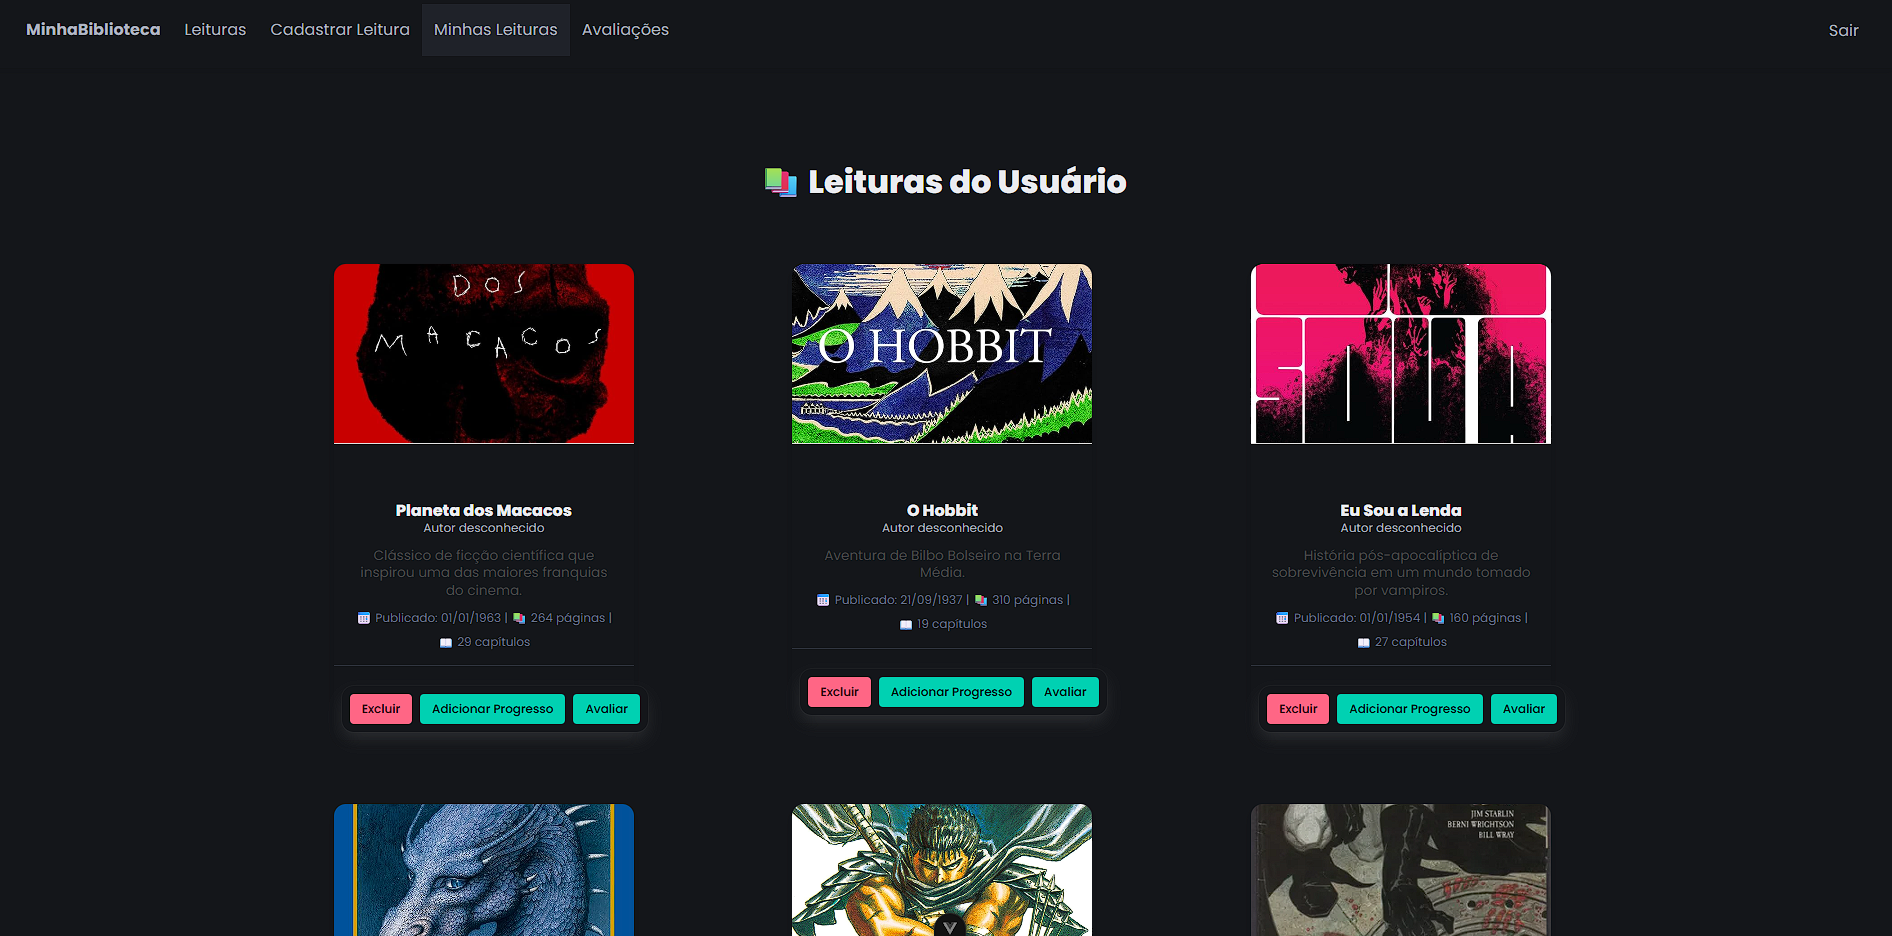
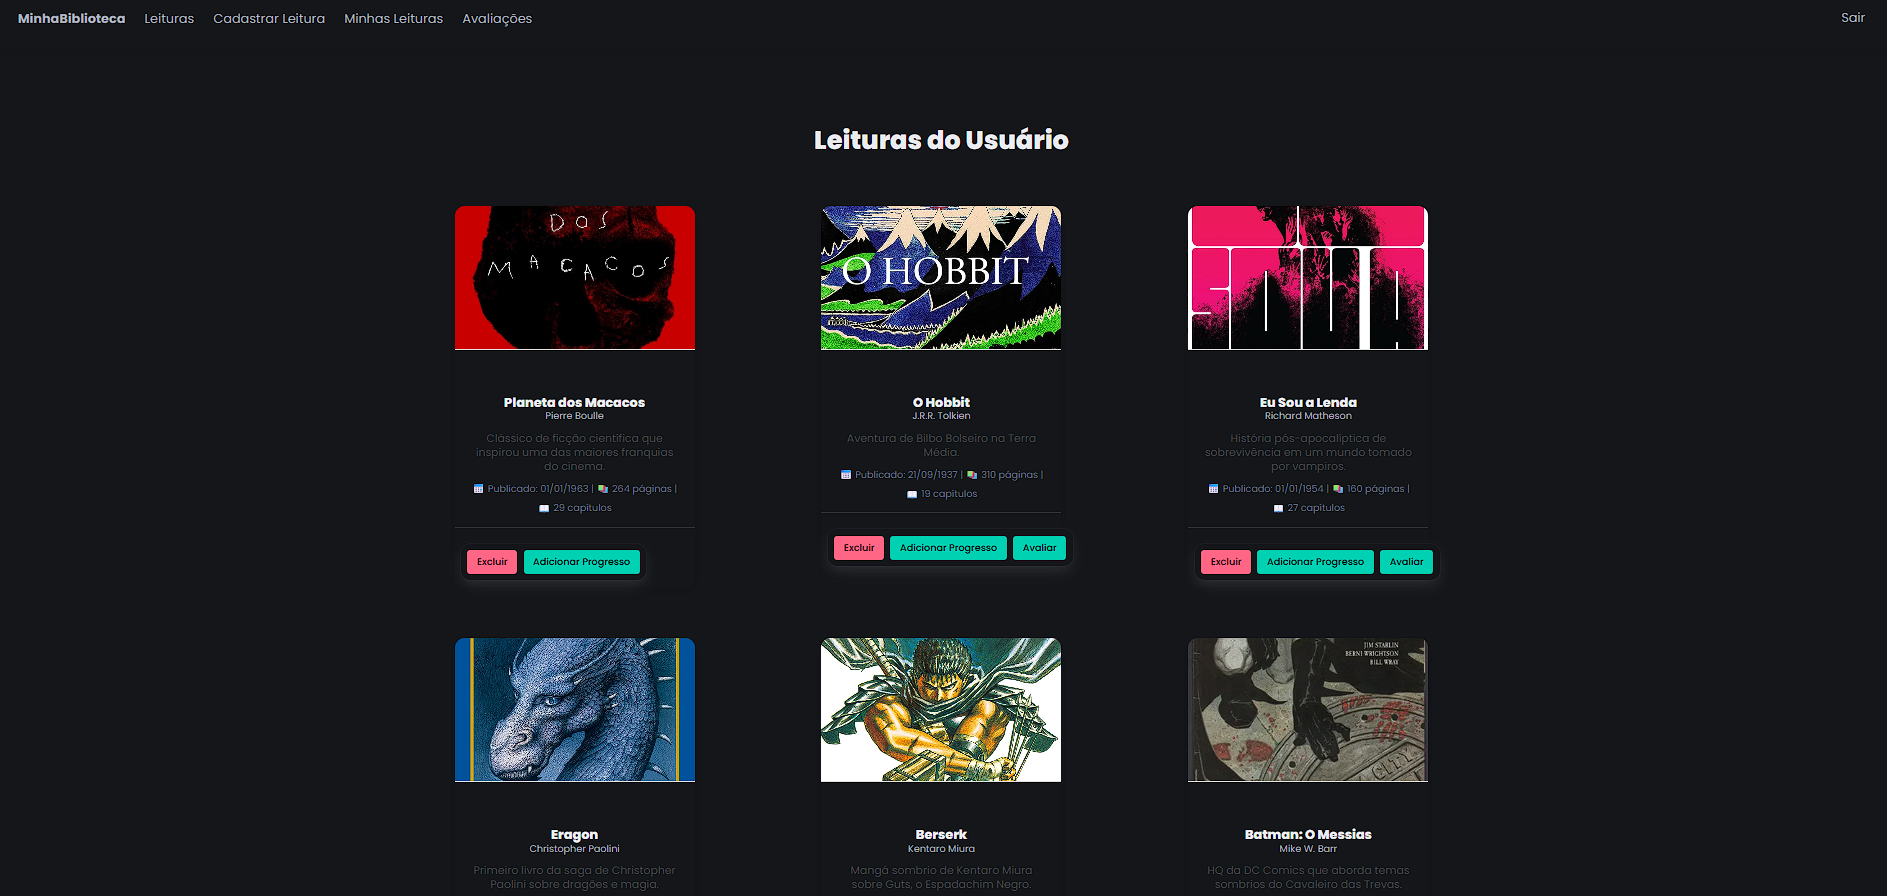
Rafatorando autores na leitura

diff --git a/src/components/Leitura/LeituraCardUsuario.vue b/src/components/Leitura/LeituraCardUsuario.vue
@@ -40,7 +40,7 @@ const formatarData = (data) => {
       <div class="content has-text-centered">
         <p class="title is-6">{{ leitura.leitura.titulo }}</p>
         <p class="subtitle is-7">
-          {{ leitura.leitura.autor || 'Autor desconhecido' }}
+          {{ leitura.leitura.autor.nome || 'Autor desconhecido' }}
         </p>
 
         <div class="descricao tooltip" :data-tooltip="leitura.leitura.descricao">

diff --git a/src/components/Leitura/LeituraCard.vue b/src/components/Leitura/LeituraCard.vue
@@ -41,7 +41,7 @@ const formatarData = (data) => {
     <div class="card-content">
       <p class="title is-6 has-text-centered">{{ leitura.titulo }}</p>
       <p class="subtitle is-7 has-text-centered">
-        {{ leitura.autor || 'Autor desconhecido' }}
+        {{ leitura.autor.nome || 'Autor desconhecido' }}
       </p>
 
       <div class="content tooltip mt-2" :data-tooltip="leitura.descricao">

diff --git a/src/views/Leitura/UsuarioLeituras.vue b/src/views/Leitura/UsuarioLeituras.vue
@@ -16,7 +16,7 @@ onMounted(() => {
 <template>
   <section class="section">
     <div class="container">
-      <h1 class="title has-text-centered mb-6">📚 Leituras do Usuário</h1>
+      <h1 class="title has-text-centered mb-6">Leituras do Usuário</h1>
 
       <div v-if="leituraStore.estaCarregando" class="has-text-centered my-6">
         <Carregando />
